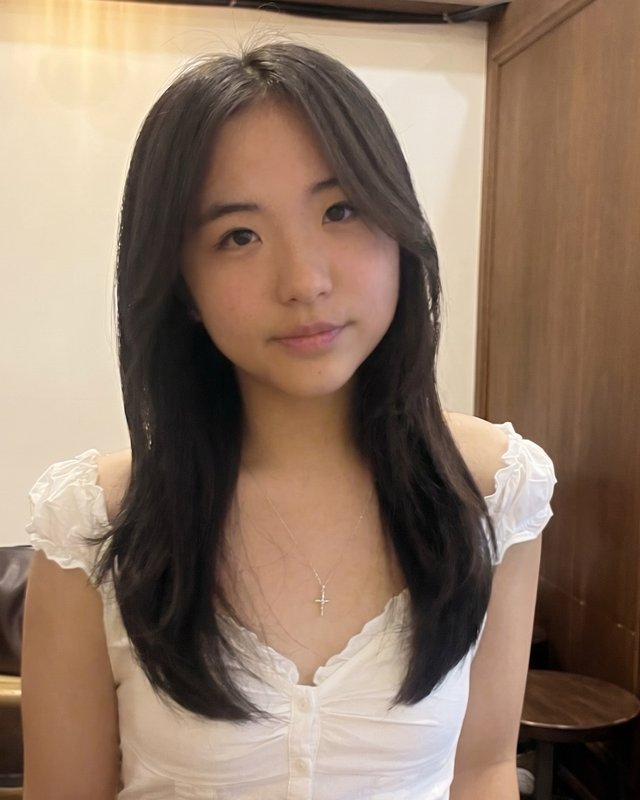
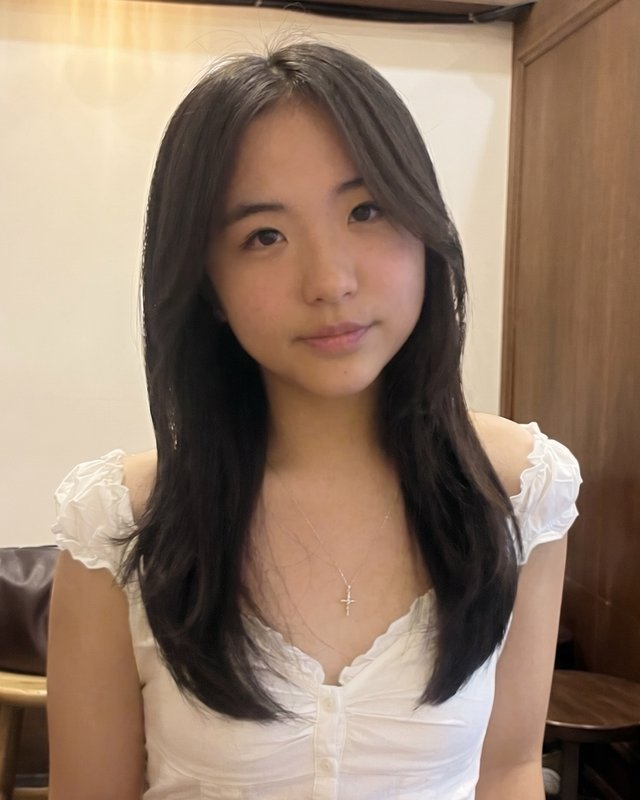
Center Allison's photo; smaller founder photos (max 220px), side by side on phones
Claude-Session: https://claude.ai/code/session_01Pbw6nkPPHnJWHY7gsHtSga

diff --git a/styles.css b/styles.css
@@ -130,7 +130,8 @@ img.headshot,.flyer img{outline:1px solid var(--image-outline);outline-offset:-1
 .steps{counter-reset:s;list-style:none;max-width:44em;border-bottom:1px solid var(--line)}
 .steps li{counter-increment:s;position:relative;padding:16px 0 16px 52px;border-top:1px solid var(--line)}
 .steps li::before{content:counter(s);position:absolute;left:0;top:12px;font-family:var(--font-display);font-weight:800;font-size:1.5rem;line-height:1.2;color:var(--navy)}
-.founders{display:grid;gap:18px;grid-template-columns:repeat(auto-fit,minmax(220px,300px));margin-bottom:40px}
+.founders{display:grid;gap:18px;grid-template-columns:repeat(auto-fit,minmax(150px,220px));margin-bottom:40px}
+@media (max-width:600px){.founders{grid-template-columns:repeat(2,minmax(0,1fr));gap:14px}.founder h3{font-size:1.2rem}.founder .role{font-size:.85rem}}
 .founder .role{color:var(--muted);font-weight:500;font-size:.95rem;margin-bottom:2px}
 .founder h3{font-size:1.45rem}
 .headshot{width:100%;aspect-ratio:4/5;object-fit:cover;border-radius:14px;margin-bottom:14px;background:#eee}
